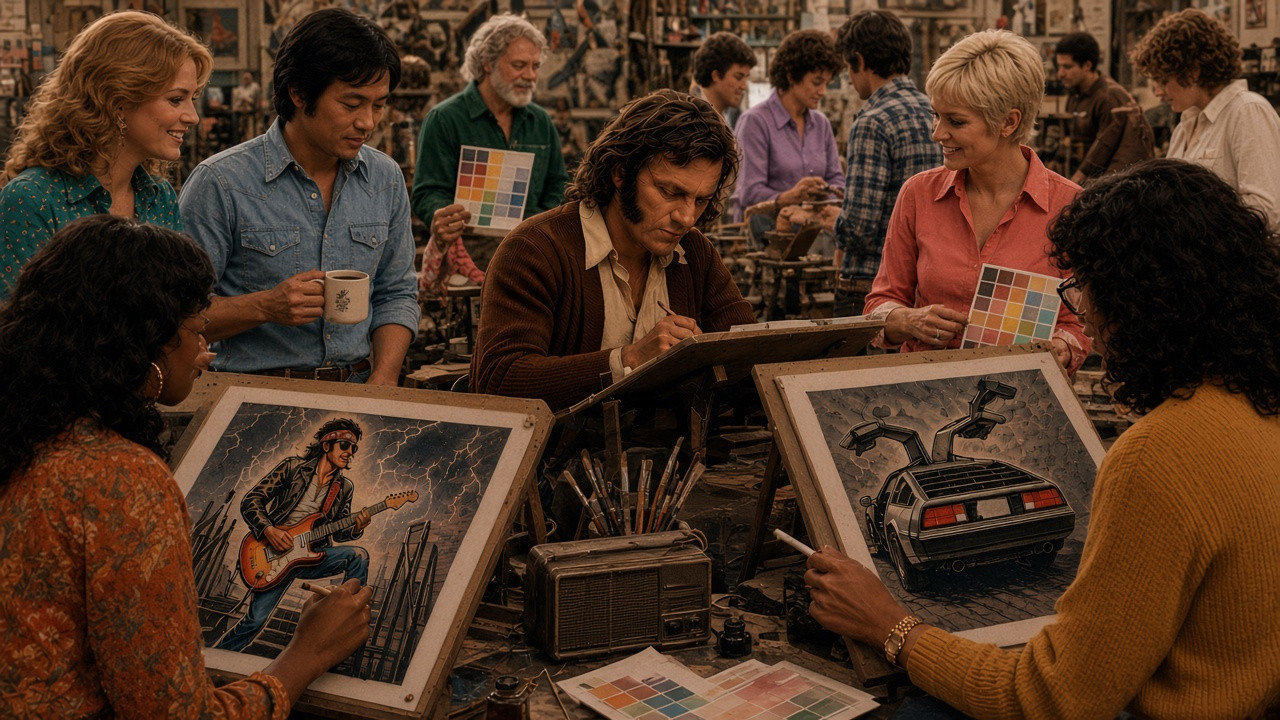
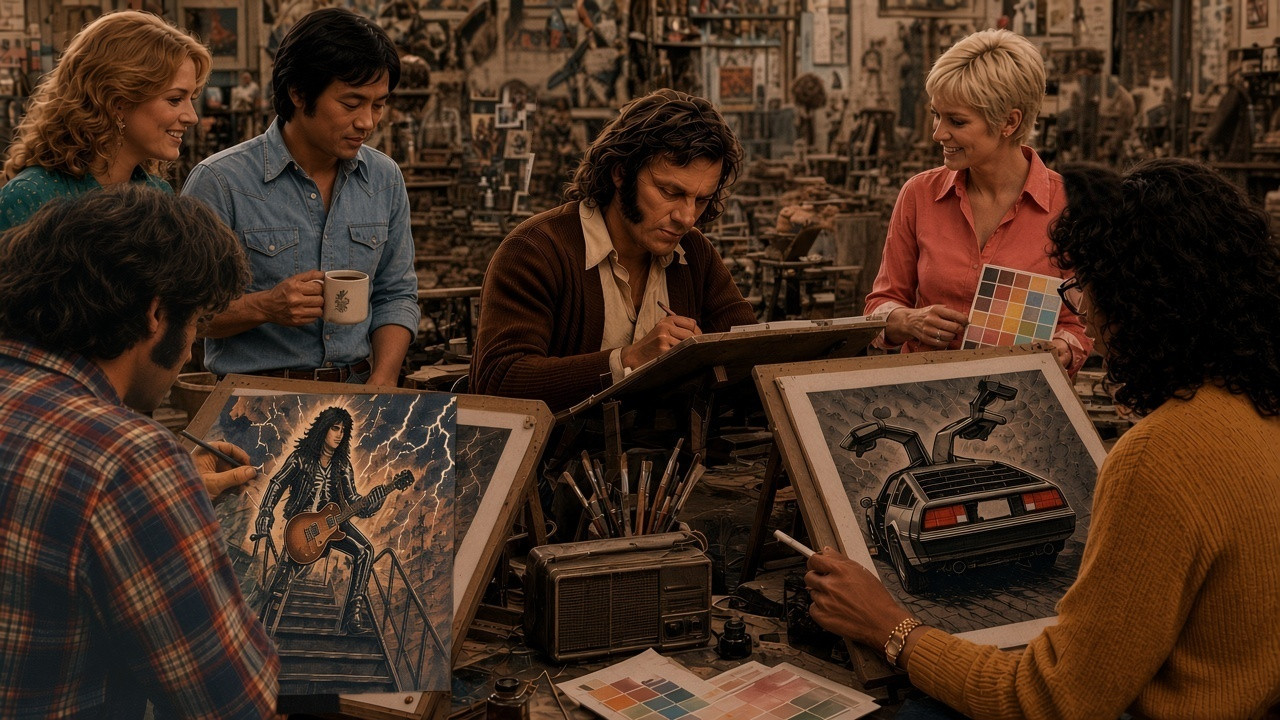
Restore Ellis and a thinner art-department crowd; replace the Pioneer catalog page and add Orbit plus three speaker-cable ads.
The left board is the plaid-shirt artist and a lightning-stairs guitarist again, with the original KISS-style makeup taken off the illustration. The Collection loses the Stereo Discounters catalog and gains Orbit Reel Co. and three invented-brand cable pages.

diff --git a/preview-wy4u7thzbj5o/collection/index.html b/preview-wy4u7thzbj5o/collection/index.html
@@ -5,7 +5,7 @@
 <meta name="robots" content="noindex,nofollow">
 <meta name="viewport" content="width=device-width,initial-scale=1,viewport-fit=cover">
 <title>Vintage hi-fi: a collection of magazine ads · Star Man Studio True Tales</title>
-<meta name="description" content="Twelve period-style magazine advertisements for Technics, Marantz, Pioneer, JBL, Fisher, Yamaha, Kenwood and Sansui, catalogued by our Vinyl desk.">
+<meta name="description" content="Fifteen period-style magazine advertisements for Technics, Marantz, Pioneer, JBL, Fisher, Yamaha, Kenwood and Sansui, along with a few invented brands, catalogued by our Vinyl desk.">
 <meta property="og:type" content="article">
 <meta property="og:site_name" content="Star Man Studio True Tales">
 <meta property="og:title" content="Vintage hi-fi">
@@ -76,8 +76,8 @@
     <header class="art-head">
       <p class="kicker">Vinyl desk · The collection</p>
       <h1 class="art-h">Vintage hi-fi</h1>
-      <p class="dek">A crate of magazine advertisements — Technics, Marantz, Pioneer, JBL, Fisher, Yamaha, Kenwood and Sansui — catalogued by our Vinyl desk. Shown as they were printed. With a word from the Ad Man.</p>
-      <p class="byline">By <b>our Vinyl desk</b> · 12 ads</p>
+      <p class="dek">A crate of magazine advertisements — Technics, Marantz, Pioneer, JBL, Fisher, Yamaha, Kenwood and Sansui, plus a few invented names from the same crate — catalogued by our Vinyl desk. Shown as they were printed. With a word from the Ad Man.</p>
+      <p class="byline">By <b>our Vinyl desk</b> · 15 ads</p>
     </header>
 
 
@@ -181,16 +181,16 @@
         <h2 class="piece-h">JBL — The new Lancer 66</h2>
         <p class="piece-note">“It speaks for itself.” The bottom of the page reads “Feel the Music.” James B. Lansing Sound, Inc., Los Angeles. The speaker badge reads Lancer 66.</p>
       </figure>
-      <figure class="piece piece-wide">
+      <figure class="piece">
         <div class="piece-pic">
           <picture>
-            <source srcset="../ads/img/ad-pioneer-catalog.webp" type="image/webp">
-            <img src="../ads/img/ad-pioneer-catalog.jpg" width="960" height="2080" alt="Tall vintage catalog-style magazine page headed What a Pair!, for Pioneer and Stereo Discounters, with a stacked system, merch and a mail-order coupon." loading="lazy" decoding="async">
+            <source srcset="../ads/img/ad-orbit-reel.webp" type="image/webp">
+            <img src="../ads/img/ad-orbit-reel.jpg" width="784" height="1168" alt="Vintage magazine ad headed ORBIT / Both reels. A woman in a teal wrap blouse and rust trousers stands with a walnut open-reel tape machine. The page is signed Orbit Reel Co." loading="lazy" decoding="async">
           </picture>
         </div>
-        <p class="kicker">Magazine ad · Pioneer and Stereo Discounters</p>
-        <h2 class="piece-h">What a Pair! — catalog page</h2>
-        <p class="piece-note">A tall catalog-style page: a stacked system, a turntable, a speaker, merch and a mail-order coupon. Pioneer and Stereo Discounters are named at the top of the page.</p>
+        <p class="kicker">Magazine ad · Orbit Reel Co.</p>
+        <h2 class="piece-h">Both reels.</h2>
+        <p class="piece-note">A walnut open-reel machine, and almost no copy. Orbit Reel Co. is an invented name from the crate.</p>
       </figure>
       <figure class="piece">
         <div class="piece-pic">
@@ -236,9 +236,42 @@
         <h2 class="piece-h">Sansui — Music in the Name</h2>
         <p class="piece-note">A stacked Sansui system with SP-2000 and SP-1000 speakers, as labeled on the cabinets. “When you want the best, the name is Sansui.”</p>
       </figure>
+      <figure class="piece">
+        <div class="piece-pic">
+          <picture>
+            <source srcset="../ads/img/ad-roomspan-cable.webp" type="image/webp">
+            <img src="../ads/img/ad-roomspan-cable.jpg" width="784" height="1168" alt="Vintage magazine ad headed ROOMSPAN / It reaches. A woman with a blonde blowout, in a lemon-yellow jumpsuit, walks a long copper-orange speaker cable across an orange shag rug to a far walnut speaker. The page is signed Roomspan Speaker Cable." loading="lazy" decoding="async">
+          </picture>
+        </div>
+        <p class="kicker">Magazine ad · Roomspan</p>
+        <h2 class="piece-h">It reaches.</h2>
+        <p class="piece-note">A comically long run of speaker cable. Roomspan is an invented name from the crate.</p>
+      </figure>
+      <figure class="piece">
+        <div class="piece-pic">
+          <picture>
+            <source srcset="../ads/img/ad-goldstrand-cable.webp" type="image/webp">
+            <img src="../ads/img/ad-goldstrand-cable.jpg" width="784" height="1168" alt="Vintage magazine ad headed GOLDSTRAND / Listen to the jacket. A woman with a dark feathered shag, in a metallic gold blouse and rust trousers, holds a gold-jacketed speaker cable like jewellery beside a walnut speaker. The page is signed Goldstrand Cable." loading="lazy" decoding="async">
+          </picture>
+        </div>
+        <p class="kicker">Magazine ad · Goldstrand</p>
+        <h2 class="piece-h">Listen to the jacket.</h2>
+        <p class="piece-note">The cable is the jewellery. Goldstrand is an invented name from the crate.</p>
+      </figure>
+      <figure class="piece">
+        <div class="piece-pic">
+          <picture>
+            <source srcset="../ads/img/ad-westgauge-cable.webp" type="image/webp">
+            <img src="../ads/img/ad-westgauge-cable.jpg" width="784" height="1168" alt="Vintage magazine ad headed WESTGAUGE / Twelve. Not ten. A woman with a chestnut short crop, in a pink floral blouse and cream trousers, holds a fat colourful 12-gauge speaker cable beside a man with a sandy moustache, in a navy knit and jeans, who holds a skinny grey cable. The page is signed Westgauge Speaker Cable." loading="lazy" decoding="async">
+          </picture>
+        </div>
+        <p class="kicker">Magazine ad · Westgauge</p>
+        <h2 class="piece-h">Twelve. Not ten.</h2>
+        <p class="piece-note">A fat colourful 12-gauge next to a skinny grey cable. Westgauge is an invented name from the crate.</p>
+      </figure>
     </section>
 
-    <p class="fine">Fine print: These are period-style magazine advertisements, shown as printed. Brand names and model numbers are taken from the pages themselves. The Ad Man’s portrait and remarks are an invented period-style introduction; he is not a historical figure, and the portrait is not one of the printed advertisements. This is a non-commercial fan page and is not affiliated with Technics, Panasonic, Marantz, Pioneer, JBL, Fisher, Altec Lansing, Yamaha, Kenwood, Sansui or any of the companies named in the ads.</p>
+    <p class="fine">Fine print: These are period-style magazine advertisements, shown as printed. Brand names and model numbers are taken from the pages themselves. Orbit Reel Co., Roomspan, Goldstrand and Westgauge are invented names from the crate; they are not real companies. The Ad Man’s portrait and remarks are an invented period-style introduction; he is not a historical figure, and the portrait is not one of the printed advertisements. This is a non-commercial fan page and is not affiliated with Technics, Panasonic, Marantz, Pioneer, JBL, Fisher, Altec Lansing, Yamaha, Kenwood, Sansui or any of the companies named in the ads.</p>
     <a class="back" href="../">← Back to the true tales</a>
   </article>
 

diff --git a/preview-wy4u7thzbj5o/behind-the-scenes/index.html b/preview-wy4u7thzbj5o/behind-the-scenes/index.html
@@ -92,14 +92,14 @@
     <div class="art-body">
       <figure class="art-pic">
         <picture>
-          <source srcset="img/bts-inkers.webp?v=6" type="image/webp">
-          <img src="img/bts-inkers.jpg?v=6" width="1280" height="720" alt="A brighter 1970s comic-art studio: illustrators at sloping drafting tables colour pages from the Ace stories — a bandana-and-shades guitarist on a lightning-struck staircase, a gull-wing car, and colour covers pinned to the wall — with brushes, ink bottles and a radio on the table; a woman in an orange floral blouse works at the left board, a woman in a mustard sweater at the right, and the Ad Man in a rust cardigan works at a board in the middle" loading="lazy">
+          <source srcset="img/bts-inkers.webp?v=7" type="image/webp">
+          <img src="img/bts-inkers.jpg?v=7" width="1280" height="720" alt="A brighter 1970s comic-art studio: illustrators at sloping drafting tables colour pages from the Ace stories — a long-haired guitarist on a lightning-struck staircase, a gull-wing car, and colour covers pinned to the wall — with brushes, ink bottles and a radio on the table; a man in a plaid shirt works at the left board, a woman in a mustard sweater at the right, and the Ad Man in a rust cardigan works at a board in the middle" loading="lazy">
         </picture>
-        <figcaption>The art department, Wednesday morning. Ellie Brennan, left, and Sonia Rosario, right, are colouring the next issue — the site’s own Ace stories, still without a real rock star’s face. Studio policy, and also the lawyers’. The Ad Man, in the cardigan, “just wanted to fix a shadow.”</figcaption>
+        <figcaption>The art department, Wednesday morning. Ellis Brennan, left, and Sonia Rosario, right, are colouring the next issue — the site’s own Ace stories, still without a real rock star’s face. Studio policy, and also the lawyers’. The Ad Man, in the cardigan, “just wanted to fix a shadow.”</figcaption>
       </figure>
 
       <h2>Colour, ashtrays, no likenesses</h2>
-      <p>The illustrators sit at sloping boards under a weather system of desk lamps. There are brushes in jars, overflowing ashtrays, a radio that knows only one station, and colour pages pinned to the wall: a smoking guitar, a gull-wing car, a staircase in a bolt of lightning. No makeup, no famous faces. “The masked rocker is a stand-in,” says Ellie Brennan, who has ink under her nails and a union opinion about lunch. “The Ad Man stands behind you and hums ‘New York Groove’ until the panel starts to work. It’s either inspiring or a workplace issue. We haven’t voted.”</p>
+      <p>The illustrators sit at sloping boards under a weather system of desk lamps. There are brushes in jars, overflowing ashtrays, a radio that knows only one station, and colour pages pinned to the wall: a smoking guitar, a gull-wing car, a staircase in a bolt of lightning. No makeup, no famous faces. “The masked rocker is a stand-in,” says Ellis Brennan, who has ink under his nails and a union opinion about lunch. “The Ad Man stands behind you and hums ‘New York Groove’ until the panel starts to work. It’s either inspiring or a workplace issue. We haven’t voted.”</p>
       <p>Sonia Rosario, who is faster and slightly meaner with a crow-quill, did not look up. “If you can tell who it is,” she said, “you’ve already gone too far.”</p>
 
       <blockquote class="pull">“I can see the grain from here. That’s the point.”</blockquote>
@@ -210,7 +210,7 @@
 
       <p>Chuck thanked him, held up the mug, and threw to a map with a smiling sun. In the hallway afterward the Ad Man smoothed the velvet jacket, which had not needed it, and said, “That’s the show. Now: back to the grain.” We let him go. The doughnut, as noted, did not survive.</p>
 
-      <p class="fine">Fine print: The Ad Man is an invented on-page character and is not named as a real person. Ruthie Kowalski, Ellie Brennan, Sonia Rosario, Connie Voss, Debbie Fane and Chuck Daley are invented too; so is <i>Rise &amp; Shine with Chuck Daley</i>. This studio visit is a period-style feature in the spirit of the site. We show no likeness of Ace Frehley or other members of KISS; the comic pages in these photographs are colour panels from the Ace stories on this site; the masked rocker remains a stand-in, not a likeness of a real person. The Vinyl desk interviews and the vintage hi-fi ads are as you find them elsewhere on the site. The ads are fake. The records are real. The megaphone was, in fact, plastic.</p>
+      <p class="fine">Fine print: The Ad Man is an invented on-page character and is not named as a real person. Ruthie Kowalski, Ellis Brennan, Sonia Rosario, Connie Voss, Debbie Fane and Chuck Daley are invented too; so is <i>Rise &amp; Shine with Chuck Daley</i>. This studio visit is a period-style feature in the spirit of the site. We show no likeness of Ace Frehley or other members of KISS; the comic pages in these photographs are colour panels from the Ace stories on this site; the masked rocker remains a stand-in, not a likeness of a real person. The Vinyl desk interviews and the vintage hi-fi ads are as you find them elsewhere on the site. The ads are fake. The records are real. The megaphone was, in fact, plastic.</p>
       <a class="back" href="../">← Back to the true tales</a>
     </div>
   </article>

diff --git a/preview-wy4u7thzbj5o/ads/ads-data.js b/preview-wy4u7thzbj5o/ads/ads-data.js
@@ -145,10 +145,10 @@ window.VINYL_ADS = {
       label: "Vintage JBL magazine advertisement",
       alt: "Vintage magazine ad headed JBL — The new Lancer 66. A woman in a mustard dress leans on a stack of components beside a JBL Lancer 66 loudspeaker. The headline at the bottom reads Feel the Music."
     },
-    "pioneer-catalog": {
-      color: "#e85d04", img: "ad-pioneer-catalog", width: 960, height: 2080,
-      label: "Vintage Pioneer catalog-style magazine advertisement",
-      alt: "Tall vintage catalog-style magazine page headed What a Pair!, for Pioneer and Stereo Discounters. A woman in a printed tank and denim shorts sits atop a stack of hi-fi components, with a speaker, a turntable, merch and a mail-order coupon on the page."
+    "orbit-reel": {
+      color: "#2f6f6f", img: "ad-orbit-reel", width: 784, height: 1168,
+      label: "Vintage Orbit Reel Co. magazine advertisement",
+      alt: "Vintage magazine ad headed ORBIT / Both reels. A woman in a teal wrap blouse and rust trousers stands with a walnut open-reel tape machine. The page is signed Orbit Reel Co."
     },
     "fisher-434b": {
       color: "#5a7a4a", img: "ad-fisher-434b", width: 784, height: 1168,
@@ -169,6 +169,21 @@ window.VINYL_ADS = {
       color: "#6b4f3a", img: "ad-sansui-name", width: 784, height: 1168,
       label: "Vintage Sansui magazine advertisement",
       alt: "Vintage magazine ad headed Sansui — Music in the Name. A woman in a patterned mini dress stands beside a stack of Sansui components and a turntable, with SP-2000 and SP-1000 speakers labeled on the cabinets."
+    },
+    "roomspan-cable": {
+      color: "#e85d04", img: "ad-roomspan-cable", width: 784, height: 1168,
+      label: "Vintage Roomspan magazine advertisement",
+      alt: "Vintage magazine ad headed ROOMSPAN / It reaches. A woman with a blonde blowout, in a lemon-yellow jumpsuit, walks a long copper-orange speaker cable across an orange shag rug to a far walnut speaker. The page is signed Roomspan Speaker Cable."
+    },
+    "goldstrand-cable": {
+      color: "#c9a227", img: "ad-goldstrand-cable", width: 784, height: 1168,
+      label: "Vintage Goldstrand magazine advertisement",
+      alt: "Vintage magazine ad headed GOLDSTRAND / Listen to the jacket. A woman with a dark feathered shag, in a metallic gold blouse and rust trousers, holds a gold-jacketed speaker cable like jewellery beside a walnut speaker. The page is signed Goldstrand Cable."
+    },
+    "westgauge-cable": {
+      color: "#1e3a5f", img: "ad-westgauge-cable", width: 784, height: 1168,
+      label: "Vintage Westgauge magazine advertisement",
+      alt: "Vintage magazine ad headed WESTGAUGE / Twelve. Not ten. A woman with a chestnut short crop, in a pink floral blouse and cream trousers, holds a fat colourful 12-gauge speaker cable beside a man with a sandy moustache, in a navy knit and jeans, who holds a skinny grey cable. The page is signed Westgauge Speaker Cable."
     }
   },
     coffee: {
